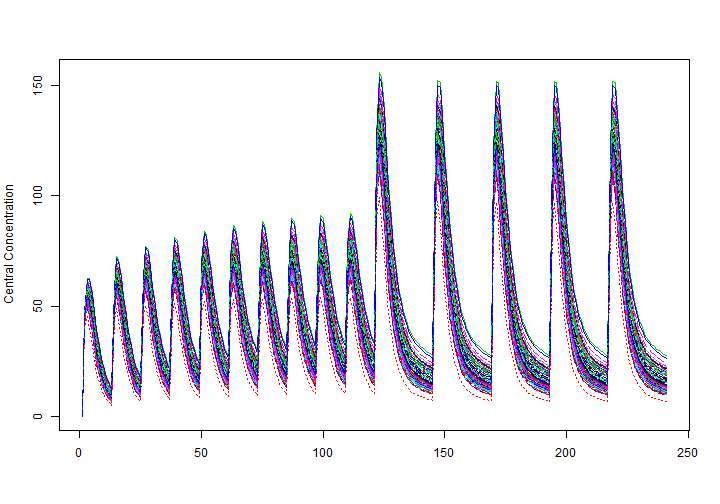
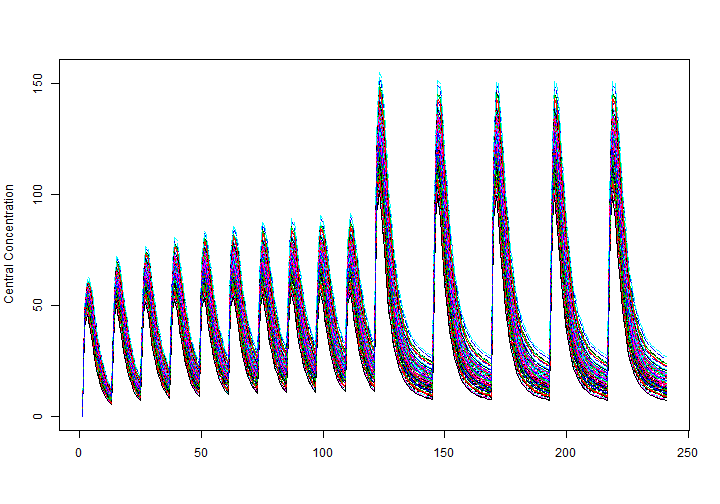
Update to nlmixr repository

diff --git a/README.md b/README.md
@@ -1,6 +1,6 @@
-[![Build Status](https://travis-ci.org/mattfidler/RxODE.svg?branch=master)](https://travis-ci.org/mattfidler/RxODE)
-[![AppVeyor Build Status](https://ci.appveyor.com/api/projects/status/github/mattfidler/RxODE?branch=master&svg=true)](https://ci.appveyor.com/project/mattfidler/RxODE)
-[![codecov.io](https://codecov.io/github/mattfidler/RxODE/coverage.svg?branch=master)](https://codecov.io/github/mattfidler/RxODE?branch=master)
+[![Build Status](https://travis-ci.org/nlmixrdevelopment/RxODE.svg?branch=master)](https://travis-ci.org/nlmixrdevelopment/RxODE)
+[![AppVeyor Build Status](https://ci.appveyor.com/api/projects/status/github/nlmixrdevelopment/RxODE?branch=master&svg=true)](https://ci.appveyor.com/project/nlmixrdevelopment/RxODE)
+[![codecov.io](https://codecov.io/github/nlmixrdevelopment/RxODE/coverage.svg?branch=master)](https://codecov.io/github/nlmixrdevelopment/RxODE?branch=master)
 [![CRAN version](http://www.r-pkg.org/badges/version/RxODE)](https://cran.r-project.org/package=RxODE)
 
 
@@ -372,12 +372,12 @@ head(theta.all)
 
 ```
 ##         KA       CL   V2    Q  V3 Kin Kout EC50
-## [1,] 0.294 21.43742 40.2 10.5 297   1    1  200
-## [2,] 0.294 20.56427 40.2 10.5 297   1    1  200
-## [3,] 0.294 20.14228 40.2 10.5 297   1    1  200
-## [4,] 0.294 21.86093 40.2 10.5 297   1    1  200
-## [5,] 0.294 23.10703 40.2 10.5 297   1    1  200
-## [6,] 0.294 14.13567 40.2 10.5 297   1    1  200
+## [1,] 0.294 24.53237 40.2 10.5 297   1    1  200
+## [2,] 0.294 19.90850 40.2 10.5 297   1    1  200
+## [3,] 0.294 20.17518 40.2 10.5 297   1    1  200
+## [4,] 0.294 14.32180 40.2 10.5 297   1    1  200
+## [5,] 0.294 18.10990 40.2 10.5 297   1    1  200
+## [6,] 0.294 18.48289 40.2 10.5 297   1    1  200
 ```
 
 Each subproblem can be simulated by using an explicit loop (or the `apply()`
